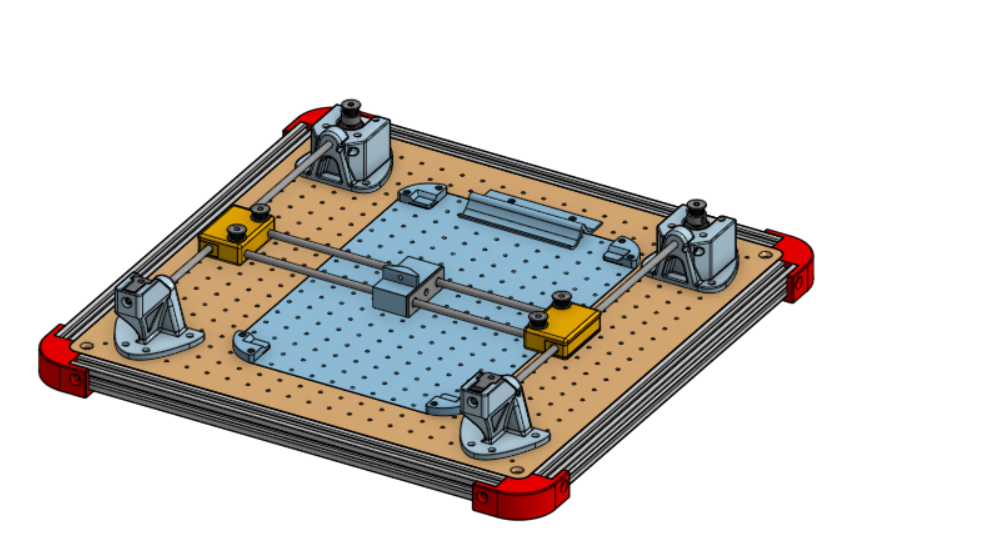
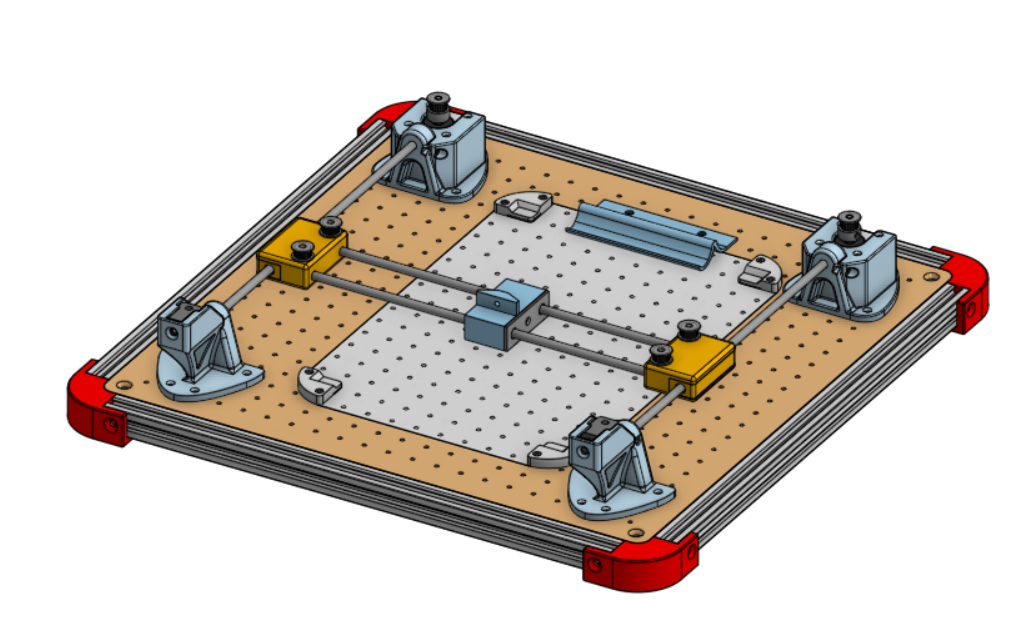
modele 3D

diff --git a/docs/index.md b/docs/index.md
@@ -13,7 +13,7 @@ Bienvenue dans la documentation du projet "Machine That Draws" du Groupe 4. Ce s
 [Notre projet sur Onshape](https://cad.onshape.com/documents/5602f51af147e57925e832cd/w/aacc746d47a23e5e48b11085/e/fa8fed0845bc65793a6c6b61){: .btn .btn-primary .fs-5 .mb-4 .mb-md-0 .mr-2 }
 [Notre repo GitHub](https://github.com/Makerspace-Amiens/2026-MachineThatDraws-Groupe04){: .btn .fs-5 .mb-4 .mb-md-0 }
 
-<iframe height="600" width="100%" src="https://modelembedder.net/embed?did=5602f51af147e57925e832cd&wvm=v&wvmid=5f5dd476191c9eabd04f97fc&eid=fa8fed0845bc65793a6c6b61&elementType=ASSEMBLY" frameborder="0"></iframe>
+<iframe height="600" width="100%" src="https://modelembedder.net/embed?did=5602f51af147e57925e832cd&wvm=v&wvmid=39d6a7a575aefd5a6f9b1e51&eid=fa8fed0845bc65793a6c6b61&elementType=ASSEMBLY" frameborder="0"></iframe>
 
 <!--{: .warning }
 >Pour intégrer la visualisation de votre projet Onshape, utilisez le site https://modelembedder.net . Activez le partage par lien via l'outil de partage de Onshape. n'oubliez pas d'activer l'option "export". Puis completez l'iframe ci-dessus avec le lien généré par le site https://modelembedder.net. Vous pouvez mettre à jour également le bouton avec le lien de partage de votre modèle.-->
